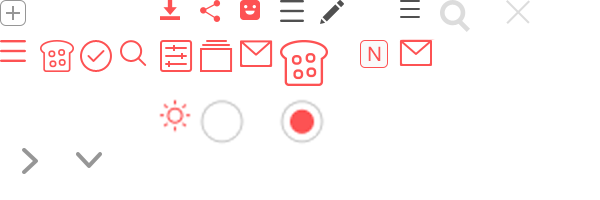
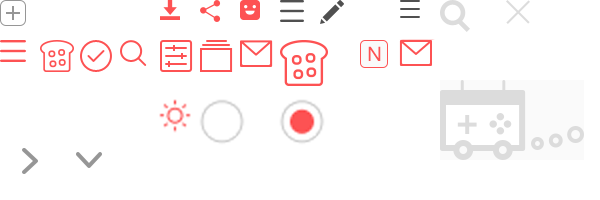
modify

Changed region(s): [[0.72, 0.39, 0.99, 0.81]]

diff --git a/06_gemshuttle/html/07.게임상세_댓글없음.html b/06_gemshuttle/html/07.게임상세_댓글없음.html
@@ -1,0 +1,123 @@
+<!doctype html>
+<html lang="ko">
+<head>
+<meta charset="utf-8">
+<meta name="viewport" content="user-scalable=no, initial-scale=1.0, maximum-scale=1.0, minimum-scale=1.0, width=device-width, target-densitydpi=medium-dpi">
+<meta name="format-detection" content="telephone=no">
+<title>Gem Shuttle</title>
+<link type="text/css" rel="stylesheet" href="../css/common.css" media="all">
+<script type="text/javascript" src="../css/jquery.js"></script>
+</head>
+
+<body>
+
+<h1 class="hide">Gem Shuttle</h1>
+
+<section class="gs_section">
+	<!-- 본문컨텐츠 -->
+	<div class="gs_content_w">
+		<!-- 게임상세정보 -->
+		<div class="gs_gameinfo_w">
+			<!-- 게임기본정보 -->
+			<div class="gsl_by_w">
+				<h2>몬스터 길들이기</h2>
+				<img src="../images/temp/temp_002.gif" width="65" height="64" alt="몬스터 길들이기" />
+				<strong>수량소진</strong>
+				<p>호쾌한 타격감의 판타지 액션 RPG</p>
+				<em class="gs_ae gsae_r"><span class="gsae_tit">잔여수량</span> <span class="gsae_num">500개</span></em>
+				<span class="bar">|</span>
+				<em class="gs_ae"><span class="gsae_tit">출시</span> <span class="gsae_num">2013.12.25</span></em>
+			</div>
+			<!-- 사전등록코드보기 -->
+			<div class="gs_code_w">
+				<div class="gs_code_inner">
+					<button type="button" id="bCodeView" class="gbtn b_code_view" rel="gsCodeView"><span class="gscd_tit"><i class="icn i_code_b"></i>사전등록 코드 보기</span> <em class="gs_ae"><span class="gsae_tit">마감</span> <span class="gsae_num">2013.12.25</span> <i class="icn i_arw_r">→</i></em></button>
+					<div id="gsCodeView" class="b_code_view gscd_view">
+						<span class="gscd_tit"><i class="icn i_code_b"></i>594o0RwMyiBs</span> <em class="gs_ae"><span class="gsae_tit">기한</span> <span class="gsae_num">2013.12.25</span></em>
+					</div>
+				</div>
+			</div>
+			<!-- 하단버튼 -->
+			<ul class="gsgi_fnc">
+				<li><a href="#"><i class="icn i_down"></i>게임 다운로드</a></li>
+				<li><a href="#"><i class="icn i_share"></i>공유하기</a></li>
+				<li><a href="#"><i class="icn i_invite"></i>게임친구 초대</a></li>
+			</ul>
+		</div>
+		<!-- 탭메뉴 -->
+		<nav class="gs_tab_w">
+			<ul id="gsGameInfoTab" class="gs_tab gst_n3">
+				<li><a href="#" rel="gsGameInfo">정보</a></li>
+				<li><a href="#" rel="gsGameReview">리뷰</a></li>
+				<!-- 현재선택 일 때 class="this" 추가 -->
+				<li class="this"><a href="#" rel="gsGameComment">댓글<em>(00)</em></a></li>
+			</ul>
+		</nav>
+		<!-- 각 탭 컨텐츠 -->
+		<div class="gsgi_content_w">
+			<!-- 정보 -->
+			<div id="gsGameInfo" class="gsgi_c">
+				<h3 class="hide">정보</h3>
+				<p>☆ 우주최강 大 스타강림 사전등록 시행(이미지 참조) ☆</p>
+				<p>&nbsp;</p>
+				<img src="../images/temp/temp_003.jpg" width="100%" alt="우주최강 대 스타강림" />
+			</div>
+			<!-- 리뷰 -->
+			<div id="gsGameReview" class="gsgi_c">
+				<h3 class="hide">리뷰</h3>
+				<h4>우주최강 大 스타강림  ‘롤링 플래닛’</h4>
+				<p>바른손 게임즈에서 만든 최고의 게임</p>
+				<p>&nbsp;</p>
+				<p>오늘도 틈틈이 앱스토어와 구글플레이를 둘러봅니다. 이름부터
+				심상치 않은 게임들이 보입니다. 그리고 설치를 합니다. 뭐, 제법
+				괜찮게 만든 것 같네요. 필요한 건 다 있고. 근데 제 취향은 아니
+				에요. 삭제. 화요일과 금요일은 카카오 게임이 펑펑펑 나오는 날
+				입니다. 설치, 설치, 설치. 그리고 삭제. 삭제. 삭제. 그나마 저는
+				iOS를 주로 쓰고 있어서 간혹 패스하는 게임도 있습니다.</p>
+			</div>
+			<!-- 댓글 -->
+			<div id="gsGameComment" class="gsgi_c gsgi_c_cmt gsgi_show">
+				<h3 class="hide">댓글</h3>
+				<!-- 댓글 탭메뉴 -->
+				<nav class="gs_tab_w gst_cmt">
+					<ul class="gs_tab gst_n2">
+						<!-- 현재선택 일 때 class="this" 추가 -->
+						<li class="this"><a href="#" rel="gsCommentList"><i class="icn i_cmt_list"></i>댓글</a></li>
+						<li><a href="#" rel="gsCommenWrite"><i class="icn i_cmt_write"></i>댓글쓰기</a></li>
+					</ul>
+				</nav>
+				<!-- 댓글없음 -->
+				<div class="gs_cmt_temp">
+					<p>
+						<i class="icn i_cmt_temp"></i>
+						<em>아직 댓글이 없어요. 1등으로 달아보세요. <span class="lb">이벤트 뽑아줄지도 모르잖아요~</span></em>
+					</p>
+				</div>
+			</div>
+		</div>
+	</div>
+</section>
+
+<script type="text/javascript">
+//<![CDATA[
+	$(document).ready(function() {
+		$("#bCodeView").bind("click", function() {
+			$(this).parent().parent().addClass("gscd_open");
+		});
+
+		$("#gsGameInfoTab").find("a").each(function() {
+			$(this).bind("click", function() {
+				$(this).parent().parent().find("li").removeClass("this");
+				$(".gsgi_show").removeClass("gsgi_show");
+				$("#"+$(this).attr("rel")+"").addClass("gsgi_show");
+				$(this).parent().addClass("this");
+			});
+		});
+	});
+//]]>
+</script>
+
+
+</body>
+
+</html>

diff --git a/06_gemshuttle/css/common.css b/06_gemshuttle/css/common.css
@@ -108,16 +108,16 @@ command, datalist, keygen, mark, meter, progress, rp, rt, ruby, time, wbr { disp
 	.gs_gameinfo_w {}
 		.gs_gameinfo_w .gsl_by_w {border:0; box-shadow:none; background:none;}
 		/* 사전등록코드보기 */
-		.gs_code_w {position:relative; height:41px; margin-top:3px; padding:0 10px; overflow:hidden; -webkit-perspective:1000;}
-			.gs_code_inner {position:relative; height:41px; -webkit-transition:0.6s; -webkit-transform-style:preserve-3d;}
-				.b_code_view {z-index:10; position:absolute; top:0; left:0; width:100%; height:41px; color:#fff; text-align:left; line-height:37px; -webkit-backface-visibility:hidden; -webkit-transform:rotateY(0deg); background:#ffd02c;}
+		.gs_code_w {position:relative; height:41px; margin-top:3px; padding:0 10px; overflow:hidden; -webkit-perspective:1000; perspective:1000;}
+			.gs_code_inner {position:relative; height:41px; -webkit-transition:0.6s; transition:0.6s; -webkit-transform-style:preserve-3d; transform-style:preserve-3d;}
+				.b_code_view {z-index:10; position:absolute; top:0; left:0; width:100%; height:41px; color:#fff; text-align:left; line-height:37px; -webkit-backface-visibility:hidden; backface-visibility:hidden; -webkit-transform:rotateY(0deg); transform:rotateY(0deg); background:#ffd02c;}
 					.gscd_tit {display:inline-block; margin:1px 0 0 13px; font-size:15px;}
 					.i_code_b {top:-2px; width:16px; height:15px; margin-right:0; background-position:-22px top;}
 					.b_code_view .gs_ae {float:right; margin:2px 12px 0 0; color:#fff;}
 						.b_code_view .gsae_tit {top:0px; border-color:#fff;}
 						.i_arw_r {top:-2px; width:12px; height:8px; background-position:-60px top;}
-				.gscd_open .gs_code_inner {-webkit-transform:rotateY(180deg);}
-				.gscd_view {z-index:1; -webkit-transform:rotateY(180deg); background:#505050;}
+				.gscd_open .gs_code_inner {-webkit-transform:rotateY(180deg); transform:rotateY(180deg);}
+				.gscd_view {z-index:1; -webkit-transform:rotateY(180deg); transform:rotateY(180deg); background:#505050;}
 					.gscd_view .gscd_tit {margin-top:2px;}
 					.gscd_view .i_code_b {margin-right:6px; background-position:-40px top;}
 		/* 하단버튼 */
@@ -164,6 +164,11 @@ command, datalist, keygen, mark, meter, progress, rp, rt, ruby, time, wbr { disp
 					.gscw_submit_w {clear:both; margin-top:3px; text-align:right;}
 						.b_submit {width:112px; height:34px; font-size:12px; color:#fff; line-height:34px; text-align:center; background:#fd5253;}
 							.i_gscw {top:-1px; width:12px; height:12px; margin-right:10px; background-position:-180px top;}
+				/* 댓글없음 */
+				.gs_cmt_temp {clear:both; padding:38px 0 0 0; text-align:center;}
+					.gs_cmt_temp p {display:inline-block; font-size:12px; color:#969696; letter-spacing:-1px;}
+						.i_cmt_temp {width:72px; height:40px; margin-left:20px; background-position:-220px -40px;}
+						.gs_cmt_temp p em {display:block; margin-top:5px;}
 			.gsgi_show {position:relative; top:0; left:0;}
 	/* 신고하기 */
 	.gs_report_w {clear:both; padding:10px; font-size:13px; color:#afafaf;}

diff --git a/06_gemshuttle/html/12.소식상세_댓글없음.html b/06_gemshuttle/html/12.소식상세_댓글없음.html
@@ -1,0 +1,54 @@
+<!doctype html>
+<html lang="ko">
+<head>
+<meta charset="utf-8">
+<meta name="viewport" content="user-scalable=no, initial-scale=1.0, maximum-scale=1.0, minimum-scale=1.0, width=device-width, target-densitydpi=medium-dpi">
+<meta name="format-detection" content="telephone=no">
+<title>Gem Shuttle</title>
+<link type="text/css" rel="stylesheet" href="../css/common.css" media="all">
+<script type="text/javascript" src="../css/jquery.js"></script>
+</head>
+
+<body>
+
+<h1 class="hide">Gem Shuttle</h1>
+
+<section class="gs_section">
+	<h2 class="hide">소식상세</h2>
+	<!-- 제목 -->
+	<div class="gsn_vd_tit_w">
+		<h3>소식제목소식제목소식제목소식제목소식제목소식제목소식제목소식제목</h3>
+		<p class="gns_vdt_info">
+			<span class="gnsvdt_from">출처출처출처</span>
+			<span class="gnsvdt_date">2013.12.29</span>
+		</p>
+	</div>
+	<!-- 내용 -->
+	<div class="gsn_vd_content">
+		<p><strong>바른손 게임즈에서 만든 최고의 게임</strong></p>
+		<p>오늘도 틈틈이 앱스토어와 구글플레이를 둘러봅니다. 이름부터 심상치 않은 게임들이 보입니다. 그리고 설치를 합니다. 뭐, 제법 괜찮게 만든 것 같네요. 필요한 건 다 있고. 근데 제 취향은 아니에요. 삭제. 화요일과 금요일은 카카오 게임이 펑펑펑 나오는 날 입니다. 설치, 설치, 설치. 그리고 삭제. 삭제. 삭제. 그나마 저는iOS를 주로 쓰고 있어서 간혹 패스하는 게임도 있습니다.</p>
+	</div>
+	<!-- 댓글 -->
+	<div class="gsn_vd_comment">
+		<h4 class="hide">댓글</h4>
+		<!-- 댓글 탭메뉴 -->
+		<nav class="gs_tab_w gst_cmt">
+			<ul class="gs_tab gst_n2">
+				<!-- 현재선택 일 때 class="this" 추가 -->
+				<li class="this"><a href="#" rel="gsCommentList"><i class="icn i_cmt_list"></i>댓글<em>(00)</em></a></li>
+				<li><a href="#" rel="gsCommenWrite"><i class="icn i_cmt_write"></i>댓글쓰기</a></li>
+			</ul>
+		</nav>
+		<!-- 댓글없음 -->
+		<div class="gs_cmt_temp">
+			<p>
+				<i class="icn i_cmt_temp"></i>
+				<em>아직 댓글이 없어요. 1등으로 달아보세요. <span class="lb">이벤트 뽑아줄지도 모르잖아요~</span></em>
+			</p>
+		</div>
+	</div>
+</section>
+
+</body>
+
+</html>
